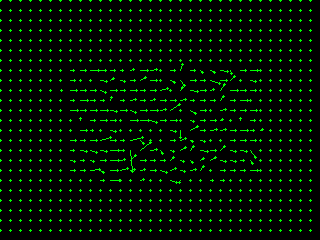
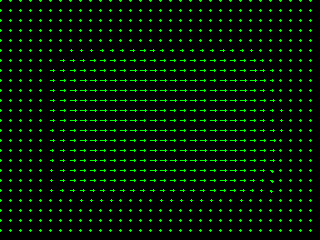
ps4 1a. Increased kenel size. Local test passing.

diff --git a/code/PS4/ps04/experiment.py b/code/PS4/ps04/experiment.py
@@ -82,7 +82,7 @@ def part_1a():
                                           'ShiftR5U5.png'), 0) / 255.
 
     # Optional: smooth the images if LK doesn't work well on raw images
-    k_size = 5  # TODO: Select a kernel size
+    k_size = 51  # TODO: Select a kernel size
     k_type = ""  # TODO: Select a kernel type
     sigma = 0  # TODO: Select a sigma value if you are using a gaussian kernel
     u, v = ps4.optic_flow_lk(shift_0, shift_r2, k_size, k_type, sigma)
@@ -94,7 +94,7 @@ def part_1a():
     # Now let's try with ShiftR5U5. You may want to try smoothing the
     # input images first.
 
-    k_size = 5 # TODO: Select a kernel size
+    k_size = 51 # TODO: Select a kernel size
     k_type = ""  # TODO: Select a kernel type
     sigma = 0 # TODO: Select a sigma value if you are using a gaussian kernel
     u, v = ps4.optic_flow_lk(shift_0, shift_r5_u5, k_size, k_type, sigma)

diff --git a/code/PS4/ps04/ps4.py b/code/PS4/ps04/ps4.py
@@ -148,7 +148,7 @@ def optic_flow_lk(img_a, img_b, k_size, k_type, sigma=1):
 
     for loc in indices:
         # try:
-        print(loc)
+        # print(loc)
         u, v = np.linalg.solve(A[loc], b_[loc])
         # except:
         #     import pdb; pdb.set_trace()
